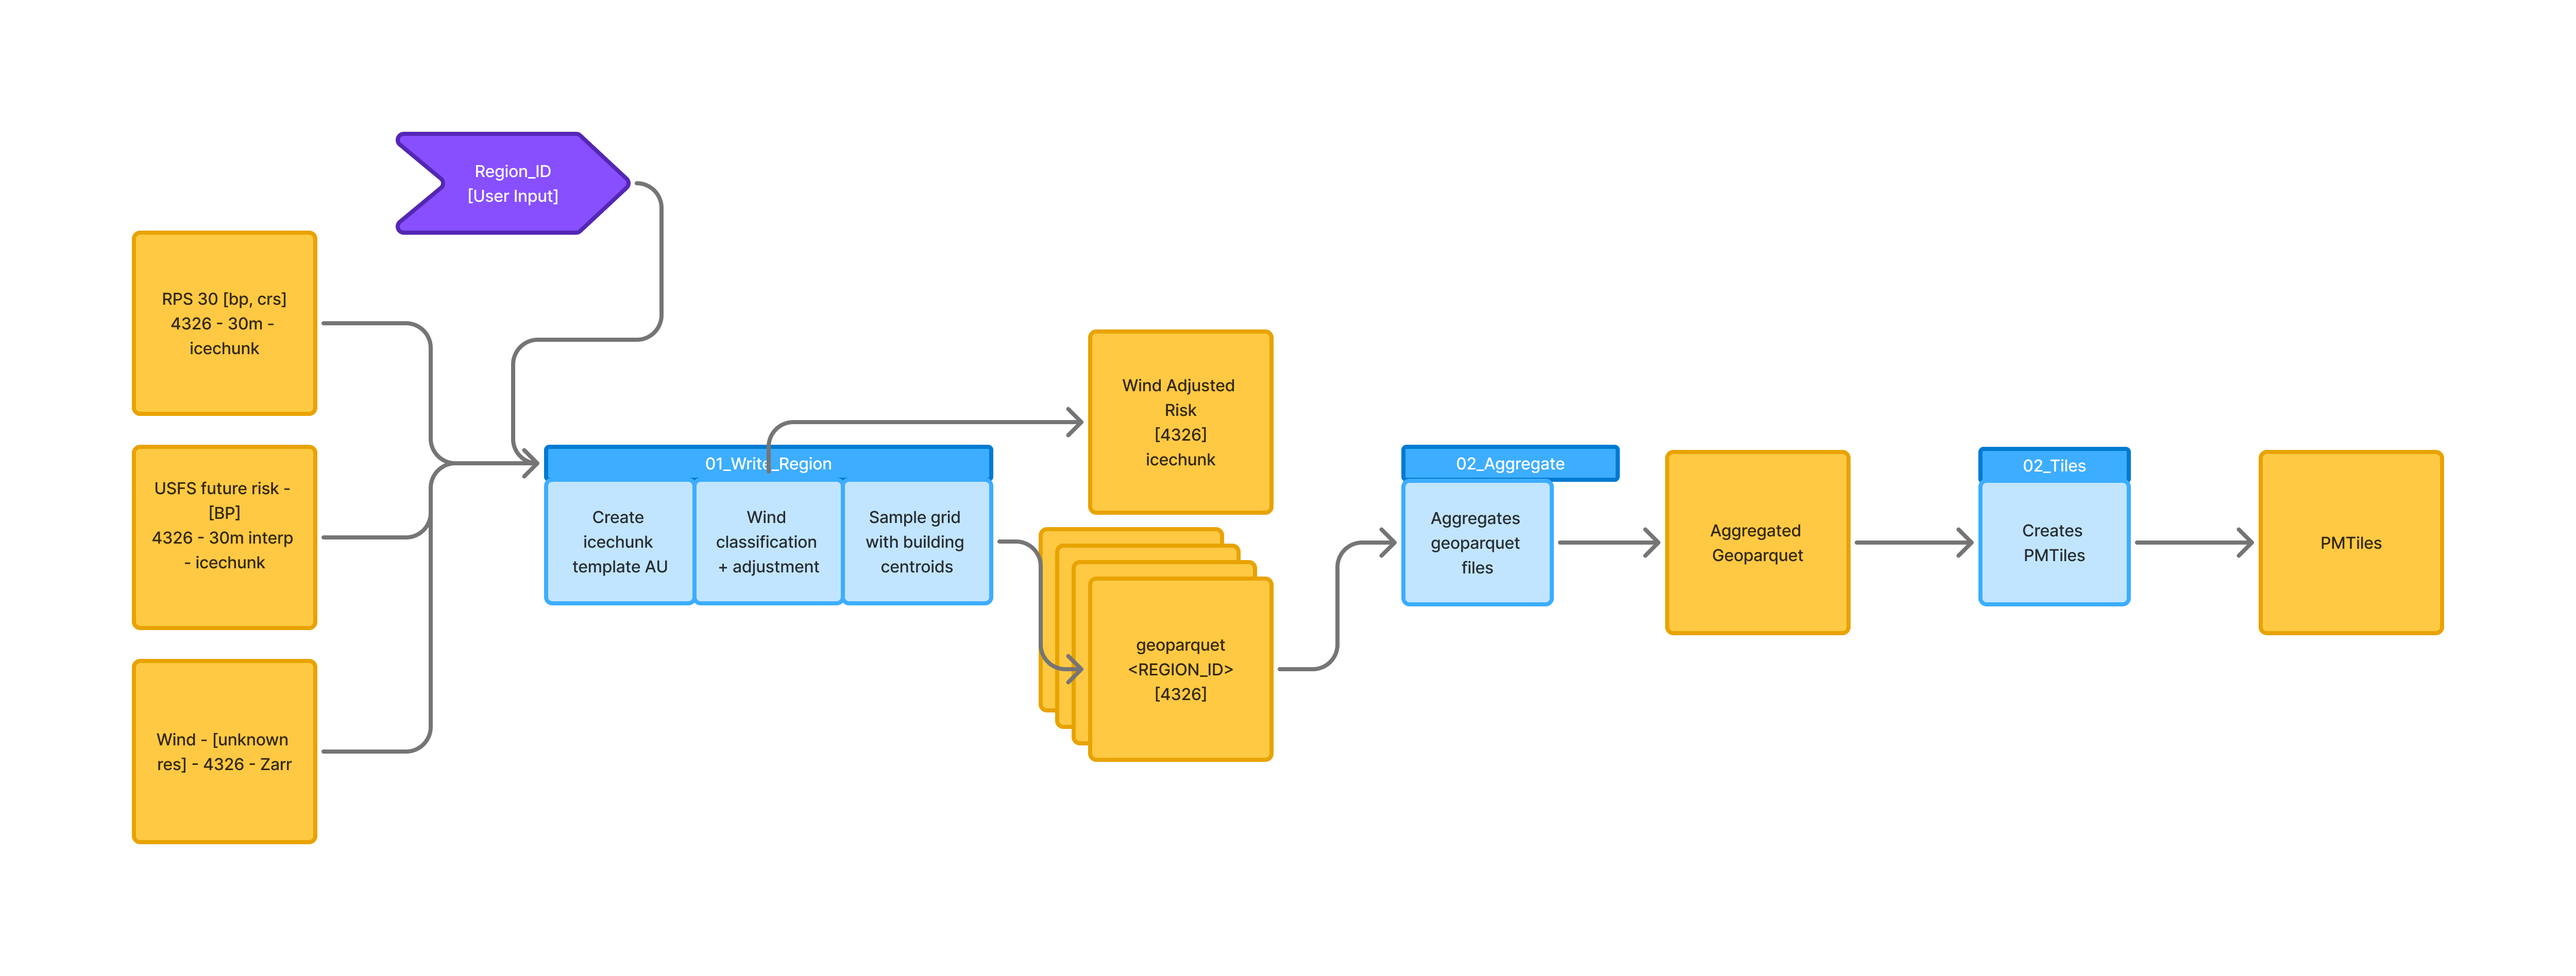
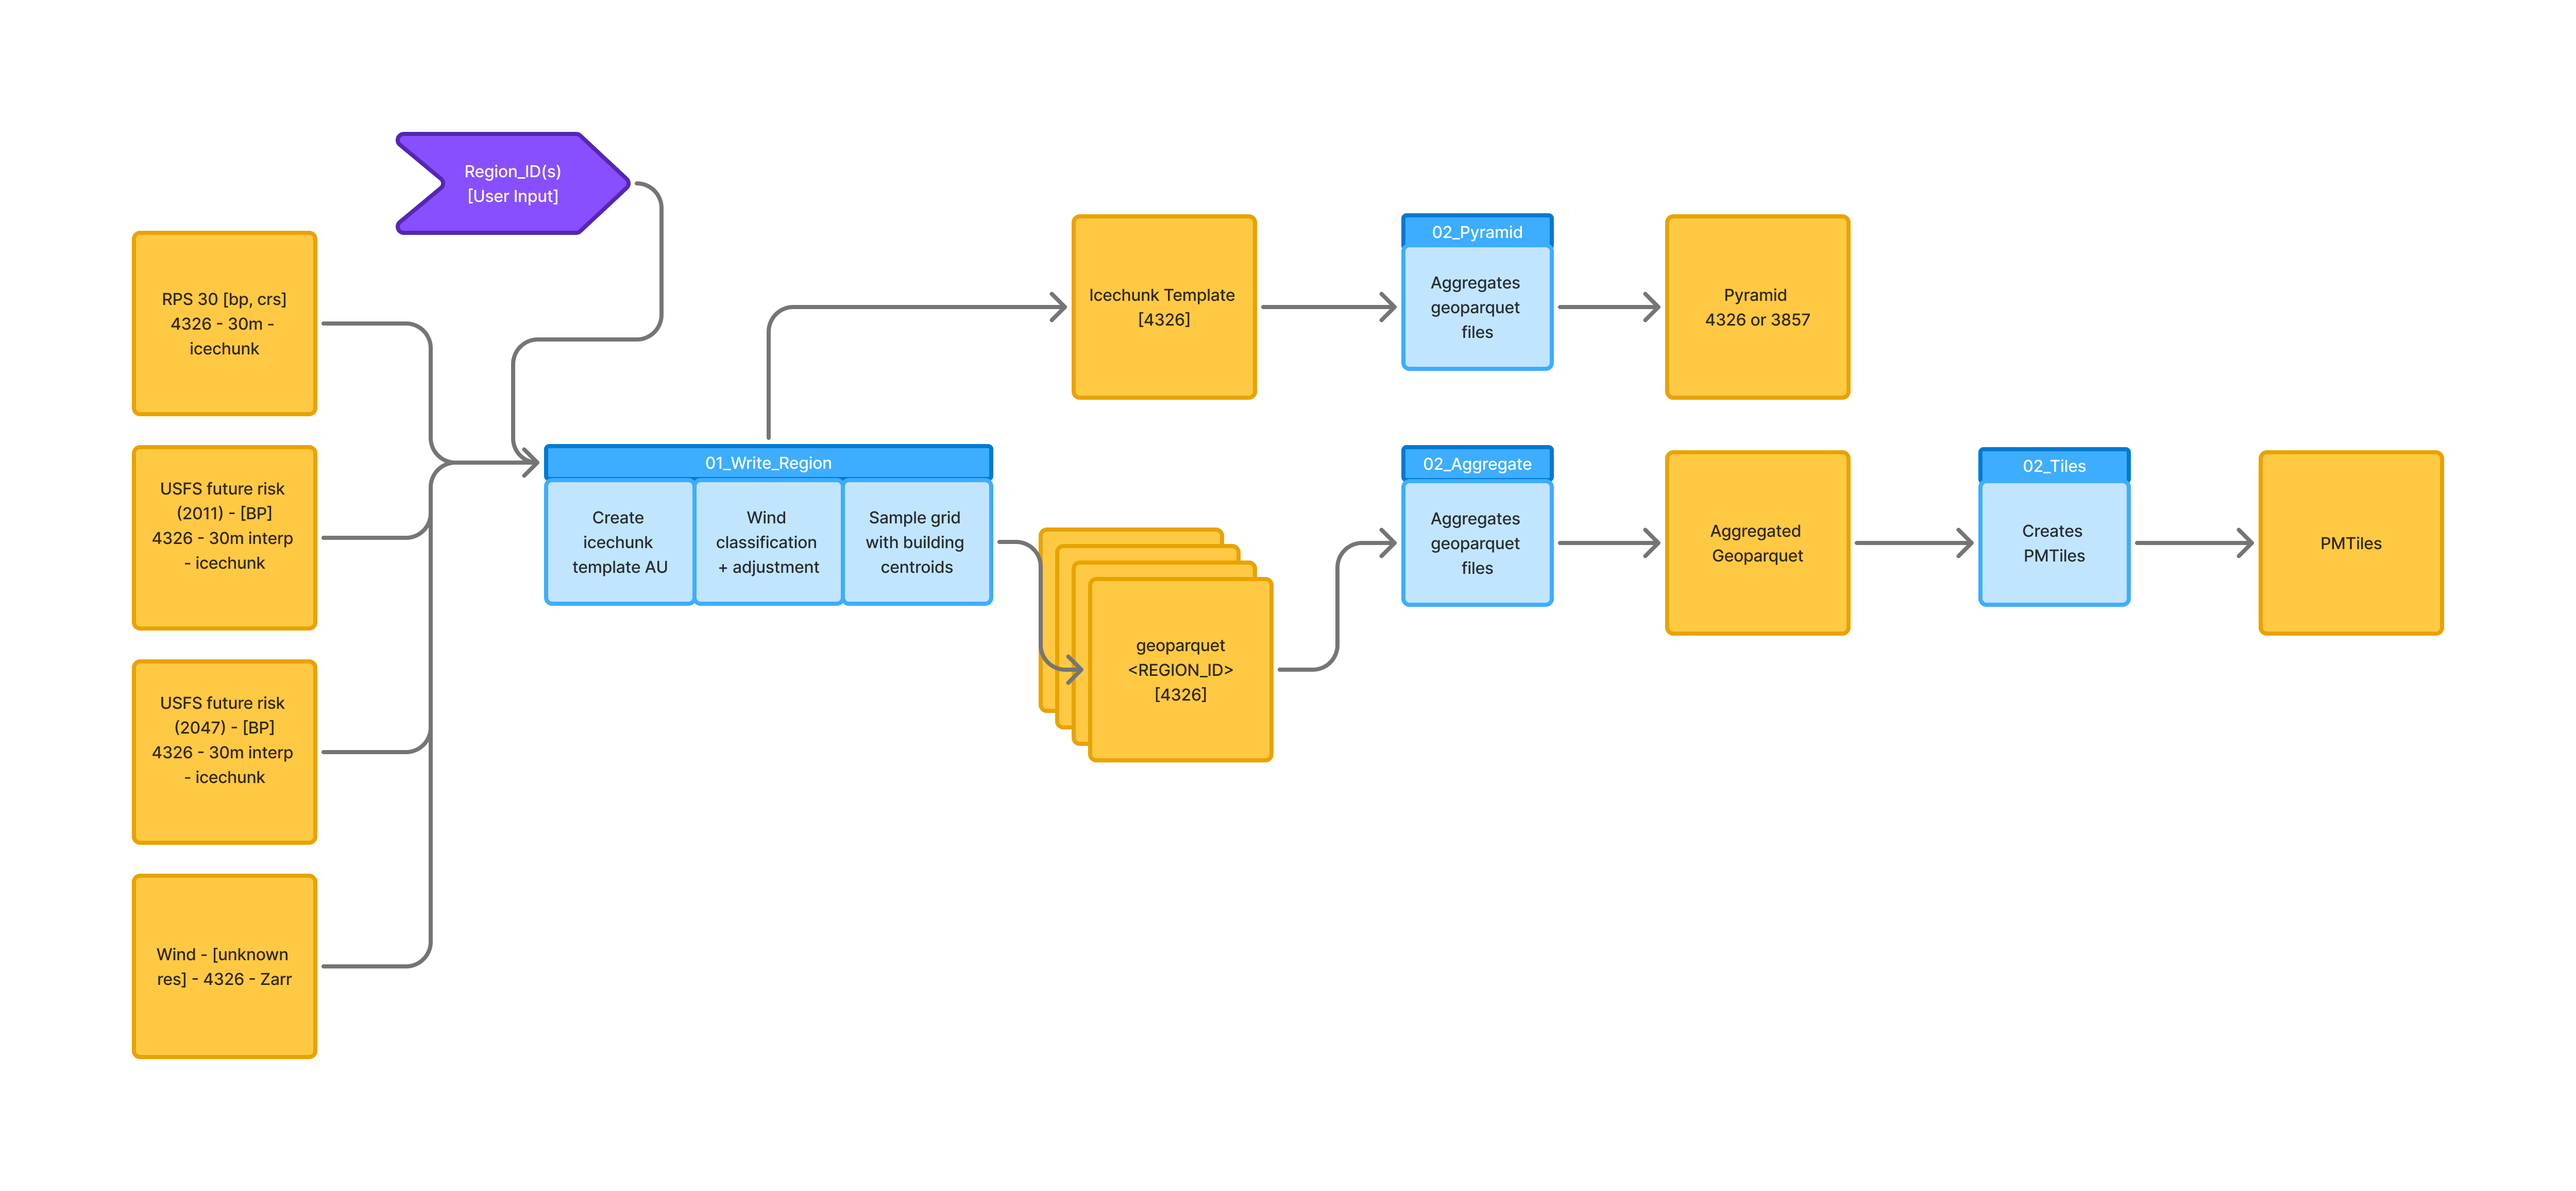
adds 1lvl pyramid opt

diff --git a/ocr/template.py b/ocr/template.py
@@ -12,6 +12,9 @@ if TYPE_CHECKING:
     import xarray as xr
 
 
+# ---------------------------------------------------------------------------
+# Vector Config
+# ---------------------------------------------------------------------------
 @dataclass
 class VectorConfig:
     branch: str = 'QA'
@@ -75,6 +78,33 @@ class VectorConfig:
         self._gen_uris()
 
 
+# ---------------------------------------------------------------------------
+# Pyramid Config
+# ---------------------------------------------------------------------------
+
+
+@dataclass
+class PyramidConfig:
+    branch: str = 'QA'
+    bucket: str = 'carbonplan-ocr'
+    prefix: str = None
+    uri: str = None
+
+    def __post_init__(self):
+        if self.branch == 'prod':
+            self.prefix = 'intermediate/fire-risk/tensor/prod/pyramid.zarr'
+        elif self.branch == 'QA':
+            self.prefix = 'intermediate/fire-risk/tensor/QA/pyramid.zarr'
+        else:
+            raise ValueError(f'{self.branch} is not a valid branch. Valid options are: [QA, prod]')
+
+        # TODO: Make this more robust with cloudpathlib or UPath
+        self.uri = 's3://' + self.bucket + '/' + self.prefix
+
+
+# ---------------------------------------------------------------------------
+# Icechunk Template Config
+# ---------------------------------------------------------------------------
 @dataclass
 class IcechunkConfig:
     branch: str = 'QA'
@@ -84,10 +114,6 @@ class IcechunkConfig:
     # icechunk_tag: str = 'main' # main=prod
     uri: str = None
 
-    # ---------------------------------------------------------------------------
-
-    # Icechunk Template
-    # ---------------------------------------------------------------------------
     def init_icechunk_repo(self) -> dict:
         """Creates an icechunk repo or opens if does not exist
 
@@ -103,7 +129,7 @@ class IcechunkConfig:
         storage = icechunk.s3_storage(bucket=self.bucket, prefix=self.prefix, from_env=True)
         repo = icechunk.Repository.open(storage)
         if readonly:
-            session = repo.readonly_session()
+            session = repo.readonly_session(branch=branch)
         else:
             session = repo.writable_session(branch=branch)
         return {'repo': repo, 'session': session}

diff --git a/ocr/pipeline/02_Pyramid.py b/ocr/pipeline/02_Pyramid.py
@@ -1,0 +1,74 @@
+# COILED n-tasks 1
+# COILED --region us-west-2
+# COILED --forward-aws-credentials
+# COILED --vm-type r7a.2xlarge
+# COILED --tag project=OCR
+# COILED --name Create_Pyramid
+from __future__ import annotations
+
+from typing import TYPE_CHECKING
+
+import click
+
+if TYPE_CHECKING:
+    import xarray as xr
+
+
+# TODO: finish typing
+def sel_coarsen(ds: xr.Dataset, factor, dims, **kwargs):
+    return ds.sel(**{dim: slice(None, None, factor) for dim in dims})
+
+
+def create_pyramid(branch: str, reproject: bool = False):
+    import xarray as xr
+    from ndpyramid import pyramid_create
+    from odc.geo.xr import assign_crs
+
+    from ocr.template import IcechunkConfig, PyramidConfig
+
+    pyramid_config = PyramidConfig(branch=branch)
+    icechunk_config = IcechunkConfig(branch=branch)
+
+    icechunk_repo_and_session = icechunk_config.repo_and_session(readonly=True)
+    ds = xr.open_zarr(icechunk_repo_and_session['session'].store, consolidated=False)
+    ds = assign_crs(ds, crs='EPSG:4326')
+
+    if reproject:
+        from odc.geo.xr import xr_reproject
+
+        dims = ('y', 'x')
+        end_projection = 'EPSG:3857'
+        ds = xr_reproject(ds, how=end_projection)
+        ds = assign_crs(ds, crs=end_projection)
+    else:
+        dims = ('latitude', 'longitude')
+        end_projection = 'EPSG:4326'
+        ds = assign_crs(ds, crs=end_projection)
+
+    # Single level pyramids
+    factors = [1]
+
+    pyramid = pyramid_create(
+        ds,
+        dims=dims,
+        factors=factors,
+        boundary='trim',
+        func=sel_coarsen,
+        method_label='slice_coarsen',
+        type_label='pick',
+    )
+    # Note: since datatree doesn't support writing to regions, we default to wiping on overwrite.
+    pyramid.to_zarr(pyramid_config.uri, mode='w', zarr_format=3, consolidated=False)
+
+
+@click.command()
+@click.option('-b', '--branch', default='QA', help='data branch: [QA, prod]. Default QA')
+@click.option(
+    '-r', '--reproject', is_flag=True, help='if True, re-project to EPSG:3857 - web mercator'
+)
+def main(branch: str, reproject: bool = False):
+    create_pyramid(branch, reproject)
+
+
+if __name__ == '__main__':
+    main()

diff --git a/ocr/config.py b/ocr/config.py
@@ -10,7 +10,7 @@ class BatchJobs:
         batch_command_list = []
         for rid in self.region_id:
             if self.run_on_coiled:
-                cmd_str = f'uv run coiled batch run --name {rid} pipeline/01_Write_Region.py -r {rid} -b {branch} -t project=OCR'
+                cmd_str = f'uv run coiled batch run --name {rid}_{branch} pipeline/01_Write_Region.py -r {rid} -b {branch} -t project=OCR'
             else:
                 cmd_str = f'uv run python pipeline/01_Write_Region.py -r {rid} -b {branch}'
 
